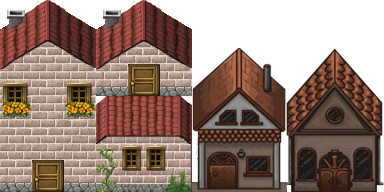
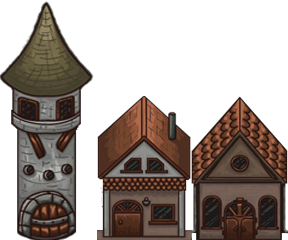
structural changes: now the origin is at bottom right and no more at center of the view

diff --git a/source/House.h b/source/House.h
@@ -18,7 +18,6 @@ private:
     vector<Block> house;
     int x;
     Texture *houseTexture;
-    default_random_engine generator;
 
 public:
 
@@ -26,22 +25,7 @@ public:
 
         houseTexture = texture;
         this->x = x;
-        uniform_int_distribution<int> distribution(0, 1);
-        switch (type) {
-            case big:
-                generateBigHouse();
-                break;
-            case small:
-                generateNewHouse1();
-                break;
-            case mini:
-                generateNewHouse2();
-                break;
-            case townhall:
-                generateTownHall();
-                break;
-        }
-
+        generateHouse(type);
 
     }
 
@@ -59,97 +43,19 @@ public:
     }
 
 
-    /*void generateHouse(HouseType type) {
-        const IntRect rectBigHouse(0, 2, 3, 0);
-        const IntRect rectSmallHouse(2, 4, 1, 0);
-        const IntRect rectMiniHouse(2, 4, 3, 2);
-
-        IntRect c;
-        switch (type) {
-            case big:
-                c = rectBigHouse;
-
-                break;
-            case small:
-                c = rectSmallHouse;
-                break;
-            case mini:
-                c = rectMiniHouse;
-                break;
-            case townhall:
-                c = c;
-                break;
-        }
+    void generateHouse(HouseType type) {
+        int height = type == big || type == townhall ? 5 : 3;
+        int width = type == townhall ? 3 : 2;
 
         house.clear();
-        for (int i = 0; i < 2; i++)
-            for (int j = 3; j >= 0; j--) {
-                int x = flip ? 2 - i + 5 : i;
-                house.emplace_back(Block(Vector2i(x, j),
-                                         houseTexture,
-                                         Vector2i(i + position.x, j + position.y)));
-            }
-    }*/
+        for (int i = (type * width); i < width + (type * width); i++)
+            for (int j = height; j > 0; j--) { // l'origine nell'immagine e' in alto a sinistra
 
-    void generateBigHouse() {
-        house.clear();
-//        generateNewHouse1();
-        for (int i = 0; i < 2; i++)
-            for (int j = 3; j >= 0; j--) {
-//                int z = flip ? 2 - i + 5 : i;
-                house.emplace_back(Block(Vector2i(i, j),
-                                         houseTexture,
-                                         Vector2i(i + this->x, j)));
+                house.emplace_back(Block(houseTexture,
+                                         Vector2i(i + 1, j),
+                                         Vector2i(i + this->x - (type * width), j)));
             }
+
     }
-
-    void generateSmallHouse() {
-        house.clear();
-        for (int i = 2; i < 4; i++)
-            for (int j = 1; j >= 0; j--) {
-                house.emplace_back(Block(Vector2i(i, j),
-                                         houseTexture,
-                                         Vector2i(i + this->x - 2, j + 2)));
-            }
-    }
-
-    void generateMiniHouse() {
-        house.clear();
-        for (int i = 2; i < 4; i++)
-            for (int j = 3; j >= 2; j--) {
-                house.emplace_back(Block(Vector2i(i, j),
-                                         houseTexture,
-                                         Vector2i(i + this->x - 2, j)));
-            }
-    }
-
-    void generateTownHall() {
-        house.clear();
-        for (int i = 0; i < 3; i++)
-            for (int j = 3; j >= 0; j--) {
-                house.emplace_back(Block(Vector2i(i, j), nullptr, Vector2i(i + this->x - 0, j)));
-            }
-    }
-
-    void generateNewHouse1() {
-        house.clear();
-        for (int i = 4; i < 6; i++)
-            for (int j = 2; j >= 0; j--) {
-                house.emplace_back(Block(Vector2i(i, j + 1),
-                                         houseTexture,
-                                         Vector2i(i + this->x - 4, j + 1)));
-            }
-    }
-
-    void generateNewHouse2() {
-        house.clear();
-        for (int i = 6; i < 8; i++)
-            for (int j = 2; j >= 0; j--) {
-                house.emplace_back(Block(Vector2i(i, j + 1),
-                                         houseTexture,
-                                         Vector2i(i + this->x - 6, j + 1)));
-            }
-    }
-
 };
 

diff --git a/source/GameEngine.h b/source/GameEngine.h
@@ -12,7 +12,11 @@
 
 class GameEngine {
 private:
-    unsigned int winX = 1366, winY = 768; //Dimensione finestra
+    static const unsigned int winX = 1366;
+    static const unsigned int winY = 768; //Dimensione finestra
+
+    Vector2f origin;
+
     RenderWindow window;
     Texture bombTexture;
     Texture houseTexture;
@@ -40,8 +44,10 @@ private:
 
 public:
     GameEngine() {
+        origin = Vector2f(-float(winX) / 2, -float(winY) / 2);
+
         window.create(VideoMode(winX, winY), "Bomb Attack", Style::Close);
-        view.setCenter(Vector2f(0.0f, 0.0f));
+        view.setCenter(origin);
         view.setSize(Vector2f(float(winX), float(winY)));
 
         bombTexture.loadFromFile(IMG_BOMB_PATH);
@@ -52,19 +58,18 @@ public:
 
         background.setTexture(&foreground);
         background.setSize(Vector2f(2048 * 1.1f, 768 * 1.1f));
-        background.setOrigin(Vector2f(1012 * 1.1f, 359 * 1.1f));
+        background.setOrigin(Vector2f(2048 * 1.1f, 768 * 1.1f));
         background.setPosition(Vector2f(0, 0));
+
+        loseImage.setTexture(&losing);
+        loseImage.setOrigin(Vector2f(float(winX) / 2, float(winX) / 2));
+        loseImage.setSize(Vector2f(float(winX) / 4, float(winX) / 4));
+        loseImage.setPosition(Vector2f(0, 0));
 
         points.setCharacterSize(10);
         points.setFillColor(Color::Black);
         points.setFont(font);
-        points.setPosition(-Vector2f(float(winX) / 2, float(winY) / 2));
-
-        loseImage.setTexture(&losing);
-        loseImage.setOrigin(Vector2f(float(winX) / 4, float(winX) / 4));
-        loseImage.setPosition(Vector2f(0, 0));
-        loseImage.setSize(Vector2f(float(winX) / 2, float(winX) / 2));
-
+        points.setPosition(-Vector2f(float(winX), float(winY)));
 
     }
 
@@ -116,7 +121,10 @@ public:
                                 block.destroy();
                                 bomb.setRndPosition();
                             }
-                            if (bomb.getPosition().y > 350.0f) lost = true;
+                            if (bomb.getPosition().y > 0) {
+                                // start some kind of animation
+                                lost = true;
+                            }
                             if (Keyboard::isKeyPressed((Keyboard::Key) (bomb.getCharacter() - 65))) {
                                 bomb.reset();
                                 pointCount++;
@@ -135,7 +143,11 @@ public:
             } else {
                 lose();
             }
-
+            RectangleShape center;
+            center.setSize(Vector2f(10, 10));
+            center.setOrigin(Vector2f(5, 5));
+            center.setPosition(Vector2f(0, 0));
+            window.draw(center);
 
             points.setString(to_string(pointCount));
             window.draw(points);
@@ -160,7 +172,7 @@ private:
                 city.emplace_back(House(&houseTexture, (HouseType) (rand() % 3), writePosition));
                 writePosition += 2;
             } else {
-                city.emplace_back(House(&houseTexture, townhall, writePosition));
+                city.emplace_back(House(nullptr, townhall, writePosition));
                 writePosition += 3;
             }
         }

diff --git a/source/Bomb.h b/source/Bomb.h
@@ -33,6 +33,7 @@ public:
 
         setRndType();
         setRndWord();
+        setRndPosition();
 
         this->switchTime = switchTime;
         totalTime = 0.0f;
@@ -41,8 +42,7 @@ public:
         velocity.y = speed;
         bombAnim = {0, 0};
 
-        setRndPosition();
-        body.setOrigin(float(size.x) / 2.0f - 25, float(size.y) / 2.0f - 30);
+//        body.setOrigin(float(size.x) / 2.0f - 25, float(size.y) / 2.0f - 30);
 
         character.setString(this->word);
         character.setCharacterSize(20);
@@ -66,7 +66,7 @@ public:
         if (totalTime >= switchTime) {
             totalTime -= switchTime;
             body.move(Vector2f(velocity * deltaTime));
-            character.setPosition(Vector2f(body.getPosition().x + 25, body.getPosition().y + 60));
+            character.setPosition(Vector2f(body.getPosition().x, body.getPosition().y + 30));
         }
     }
 
@@ -113,10 +113,10 @@ public:
     }
 
     void setRndPosition() {
-        std::uniform_int_distribution<int> distribution(0, 25);
+        std::uniform_int_distribution<int> distribution(0, 26);
         int number = distribution(generator);
         // Non mi ricordo assolutamente che razza di calcolo era
-        body.setPosition(Vector2f((float) ((number - 13) * 50) - 25, -500));
+        body.setPosition(Vector2f((float) -(number * 50) - 33, -1000));
         character.setPosition(body.getPosition());
     }
 

diff --git a/source/Block.h b/source/Block.h
@@ -16,17 +16,15 @@ using namespace std;
 class Block : Entity {
 
 public:
-    Block(Vector2i piece, Texture *texture, Vector2i pos)
+    Block(Texture *texture, Vector2i piece, Vector2i pos)
             : Entity(texture, pos, Vector2i(ENTITY_SIZE, ENTITY_SIZE)) {
 
-        //if (piece.x < 5)
-            body.setTextureRect(
-                    IntRect(piece.x * IMG_BLOCK_WIDTH, piece.y * IMG_BLOCK_HEIGHT,
-                            IMG_BLOCK_WIDTH, IMG_BLOCK_HEIGHT));
-//        else
-//            body.setTextureRect(IntRect((piece.x - 5) * IMG_BLOCK_WIDTH,piece.y * IMG_BLOCK_HEIGHT,
-//                                         -IMG_BLOCK_WIDTH, IMG_BLOCK_HEIGHT));
-        body.setPosition(Vector2f((float) (pos.x * 50) - 675, (float) (pos.y * 50) + 183));
+        body.setTextureRect(IntRect(piece.x * IMG_BLOCK_WIDTH,
+                                    (5 - piece.y) * IMG_BLOCK_HEIGHT,
+                                    -IMG_BLOCK_WIDTH,
+                                    IMG_BLOCK_HEIGHT));
+
+        body.setPosition(Vector2f((float) -(pos.x * 50) - 33, (float) -(pos.y * 50)));
     }
 
     ~Block() = default;

diff --git a/source/Entity.h b/source/Entity.h
@@ -15,6 +15,7 @@ public:
     Entity(Texture *texture, Vector2i pos, Vector2i size) {
         body.setTexture(texture);
         body.setSize(Vector2f((float) size.x, (float) size.y));
+        body.setOrigin(Vector2f((float) size.x/2, (float) size.y/2));
         body.setPosition(Vector2f((float) pos.x, (float) pos.y));
         generator.seed(time(nullptr));
     }
